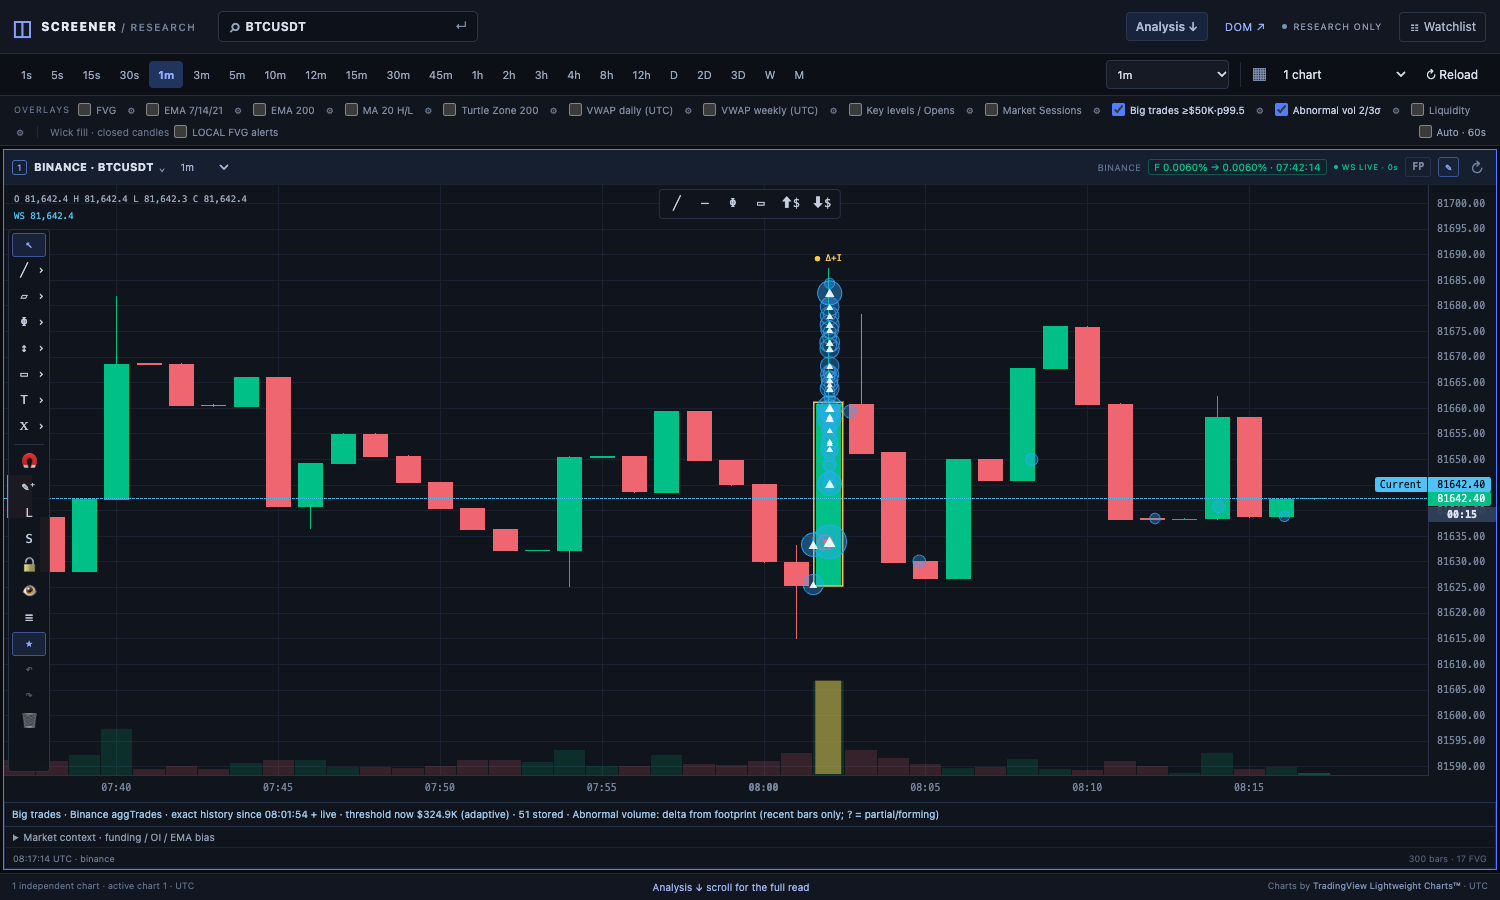
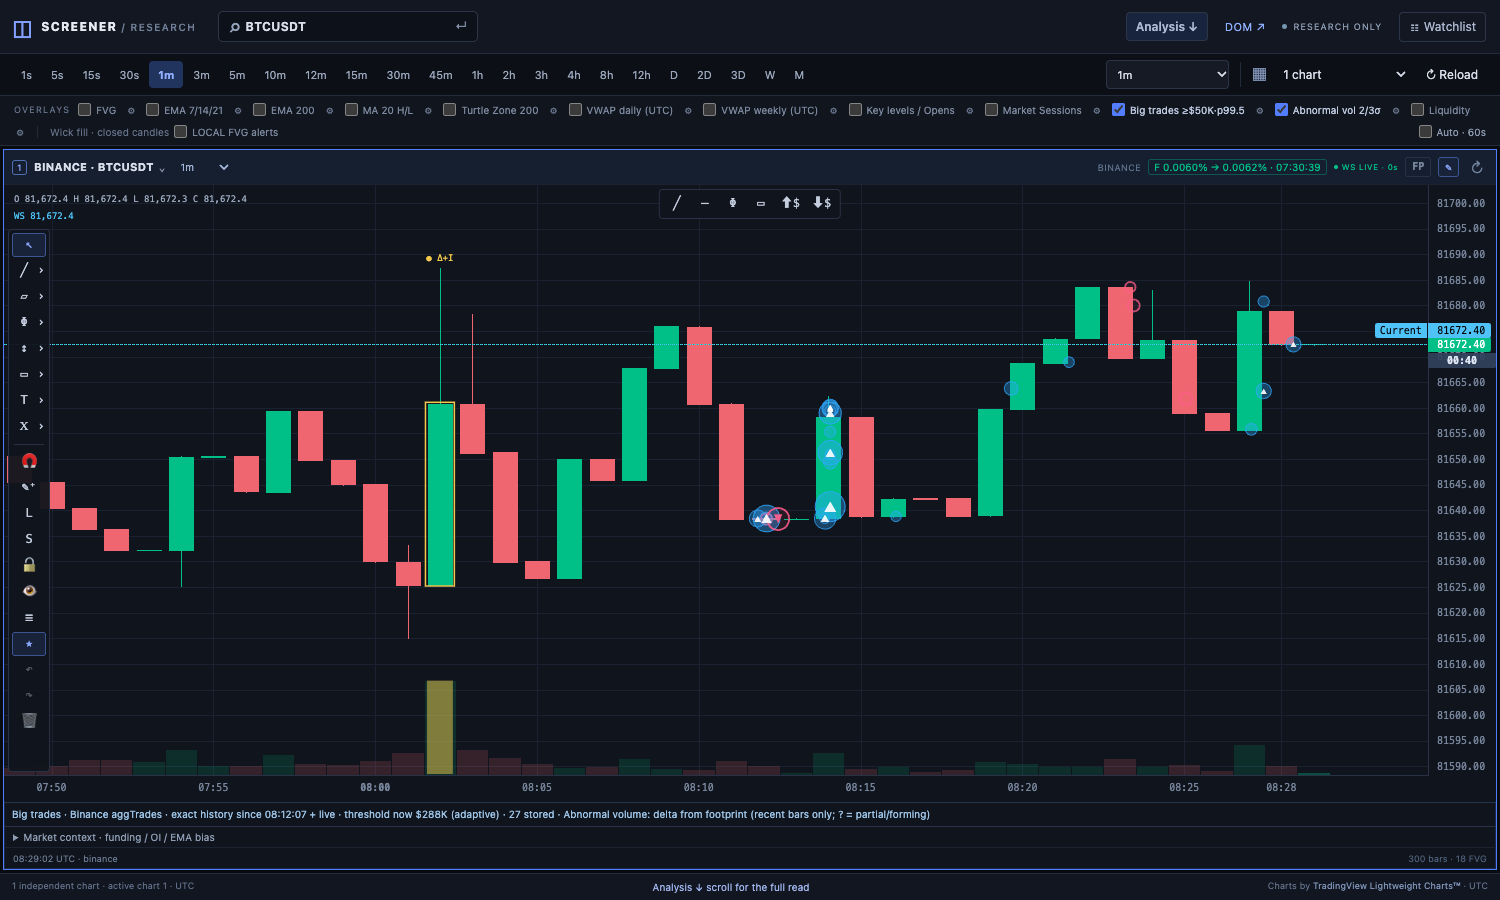
Пузыри и аномальный объём: отчёт ORDERFLOW_VISUALS_RESULT.md и живые доказательства

diff --git a/docs/ORDERFLOW_VISUALS_RESULT.md b/docs/ORDERFLOW_VISUALS_RESULT.md
@@ -1,0 +1,152 @@
+# Order-flow visuals: big-trade bubbles + abnormal-volume candles
+
+Branch `claude/orderflow-visuals` (from `claude/integration` @ 2705802). Two new chart
+indicators on `/ui`, each one toggle + one ⚙ settings popover in the overlay bar
+(`Big trades …`, `Abnormal vol …`). Both are **off by default**; old saves keep their
+choices (tested). Clean-room: behaviour was designed from public help-centre descriptions
+only; notes live outside the repo.
+
+## What was built
+
+### 1. Big-trade bubbles (`static/indicators/bubbles.js`, `bubbles-render.js`)
+- A circle at (trade time, trade price) for every **large aggressive print**.
+  - Taker **buy** = solid disc (default blue) with ▲; taker **sell** = ring (default pink)
+    with ▼ — a shape cue, not only colour.
+  - Area ∝ notional: `r = rMin·√(notional / threshold)`, clamped to `[rMin, rMax]`
+    (defaults 5–30 px). When zoomed out the max radius shrinks to ≈ bar width
+    (diameter ≤ ~2 bars); x stays inside the trade's own bar slot.
+  - Opacity grows with size (0.45–0.85); views with > 300 bubbles fade
+    (× √(300/n), floor 0.35) so candles stay readable; at most `maxVisible` (1500)
+    of the **largest** prints in view are drawn.
+- **Large** = `mode`:
+  - `fixed`: notional ≥ `minUsd` (default $50,000, USD = quote currency);
+  - `adaptive`: notional ≥ nearest-rank percentile `p` (default 99.5) of all print sizes in
+    the trailing `windowMin` (30) minutes for that symbol; needs `minSamples` (300) prints
+    first (until then: no bubbles in `adaptive`, fixed only in `both`);
+  - `both` (default): ≥ max(fixed, percentile).
+  - The threshold is **causal**: each print is judged against the distribution *before* it,
+    and keeps that threshold (shown in the tooltip), so bubbles do not change later.
+- **Print aggregation (heuristic, labelled in the tooltip)**: same side, within
+  `aggWindowMs` (150 ms) of the print's *first* trade and within `aggTicks` (2) ticks of
+  its first price (tick from `/api/scalp/instrument`). Buy and sell prints are tracked
+  separately, so interleaved opposite trades do not split a print. If the tick is unknown,
+  only exact-price fills merge (status says so). Binance aggTrades are already one taker
+  order at one price; our merge on top can join different takers.
+- **History**: new route `GET /api/trades/recent?exchange&symbol&minutes&max_requests`
+  (`trades_api.py`) returns raw rows `[id, time_ms, price, qty, side]` with coverage:
+  Binance = contiguous aggTrades back to `minutes` within a request budget (default 10,
+  max 20; shares the footprint aggTrades rate window, cuts the oldest first, says so);
+  Bybit = latest ≤1000 trades (**partial**); Hyperliquid = recent handful (**partial**).
+  The backfill is requested only after the live trade stream is up (so the snapshot's last
+  aggTrade id meets the first streamed id), then the live stream continues it. Binance live
+  ids are de-duplicated and **gaps are counted** in the status line; Bybit/HL by trade id.
+  A busy rate window returns 502 and the client retries (15/30/45 s).
+- Memory per pane: ≤ `maxStored` (5000) big prints; the percentile distribution keeps
+  only the trailing window (cap 200k values).
+- Hover tooltip: side, size, notional, price (VWAP + range if merged), time (UTC, ms),
+  venue, "aggregated from N aggTrades (heuristic …)", threshold then + basis, ids.
+- Status line per pane: source, exact/PARTIAL history start, budget truncation, live
+  gaps, current threshold.
+
+### 2. Abnormal-volume candles (`static/indicators/volume-anomaly.js`)
+- Default: **z-score of ln(volume)** vs the previous `lookback` (50) bars (bar itself
+  excluded, sample σ), tiers **2σ / 3σ**. Alternatives: `k × median` (2.5/4),
+  `k × average` (2.5/4), `percentile rank` (95 / 100 = above every bar in the window).
+- Visual: outline the body (default) or recolour it; tier 1 yellow, tier 2 orange,
+  thicker for tier 2; optional volume-bar highlight; marker above the high (`●`/`●●`).
+- Forming bar: scored against the same closed window; its volume only grows, so its tier
+  only rises (no flicker); drawn dashed and labelled "provisional". When it closes, the
+  closed bar gets the identical score (unit-tested).
+- Delta (1m–1h only): from this chart's footprint if FP is on, otherwise a hidden
+  footprint controller for the last 30/20/12/8/6/4 bars (1/3/5/15/30/60 m). Marker
+  `Δ+I` / `Δ−A` = initiative (delta agrees with the bar) / absorption (strong delta, bar
+  went the other way or barely moved); `|delta| < 15 %` = balanced. "from footprint
+  (complete bar)" only when the footprint bar is complete and closed; otherwise `?` and
+  "provisional".
+- Hover tooltip on the bar's marker/body: tier, score, method, volume, delta text.
+
+### 3. Analyst snapshot fields — **not done** (left to avoid touching analyst files that
+another agent is editing). `BigTradeStore.barSummary(open, interval)` already returns
+per-bar count / buys / sells / net notional for a future wiring.
+
+## Files
+- New: `trades_api.py`, `static/indicators/bubbles.js`, `bubbles-render.js`,
+  `volume-anomaly.js`, `orderflow-pane.js` (pane glue), tests
+  `tests/test_trades_api.py`, `tests/orderflow_visuals.test.cjs`.
+- Wiring only: `screener.py` (+2 lines), `templates/workspace.html` (+4 script tags),
+  `static/workspace.js` (+19 lines: 2 definitions, `initOrderflow`, draw/tooltip/dispose
+  hooks, chip order), `static/indicators/indicators.css` (tooltip/status styles),
+  `tests/workspace_unit.test.cjs` (toggle list + migration test).
+
+## Tests
+- `node --test tests/`: 238 tests, 232 pass, 0 fail, 6 skipped (pre-existing browser tests).
+  New: fixed/adaptive thresholds incl. warm-up and `both`, rolling-distribution expiry/cap,
+  aggregation window/tolerance/side isolation, radius scale (area ∝ notional, clamps,
+  zoom-out cap), store dedupe/gap/memory bound/causal threshold, batched render with
+  1,200 of 2,000 drawn largest-first + hit-test + tooltip, controller (backfill after the
+  stream, retry, cancel on disable), z-score / ratio / percentile tiers, forming-bar
+  monotonic and equal to the closed result, delta classification + footprint delta, settings
+  migration (new ids off, corrupt values → defaults), overlay list = one toggle + one ⚙ per
+  indicator.
+- `pytest`: 1672 passed. New: Binance rows exact vs fake aggTrades (side from maker flag),
+  budget cuts oldest, Bybit partial, validation 400s, malformed venue 502, busy rate window
+  502 instead of an empty "exact" history.
+- CI lint exactly as `.github/workflows/ci.yml` (py_compile + both ruff commands): pass.
+
+## Live checks (2026-10-18, Sunday ≈ 07:40–08:25 UTC, quiet market)
+Server: this worktree on 127.0.0.1:5100 (scratch DBs). Headless Chrome 155, 1600×1000,
+DPR 1. Independent checker (stdlib Python) re-fetched raw venue data right after dumping
+the page state. Evidence: `docs/evidence/orderflow-visuals/`.
+
+**Bubbles vs raw aggTrades** (`crosscheck-4panes.json`, 4-pane layout, ~100 s after load):
+
+| Pane | raw trades re-fetched | prints page / independent | big page / independent | mismatches |
+|---|---|---|---|---|
+| Binance BTCUSDT 1m | 5,350 aggTrades, ids contiguous | 3,807 / 3,807 | 45 / 45 | 0 threshold, 0 Decimal sum, 0 live gaps |
+| Binance BTCUSDT 15m | same 5,350 | 3,807 / 3,807 | 45 / 45 | 0 / 0 / 0 |
+| Binance ETHUSDT 5s | 5,396 aggTrades, contiguous | 3,262 / 3,263 (one print still open on the page at dump time) | 34 / 34 | 0 / 0 / 0 |
+| Bybit SOLUSDT 1m | recent-trade (1000) | — | 3 stored, 2 still re-fetchable | 0 (side, first time, Decimal qty sum) |
+
+"Independent" = a separate Python re-implementation of aggregation + causal percentile run
+over the re-fetched aggTrade id range; every page print's qty/notional equals the Decimal sum
+of its member aggTrades (rel. 1e-9), first-trade time and side (maker flag) equal.
+
+**Abnormal volume vs REST** (same report): BTC 1m 300 bars → 10 flags (7 tier 1, 3 tier 2),
+independent 10, 0 disagreements; BTC 15m 11 flags (5/6), 0 disagreements; ETH 5s 186 bars,
+volumes rebuilt from 4,370 aggTrades into 5 s buckets: 0 volume mismatches, 1 flag = 1;
+Bybit SOL 1m (v5 kline) 9 flags (8/1), 0 disagreements.
+Delta: BTC 1m 07:42 UTC flagged bar shows "+80.6 % initiative, complete"; Binance kline
+taker-buy gives 2·144.151 − 159.653 = 128.649 → +80.58 % (`delta-crosscheck-btc1m-0742.txt`).
+
+**Frame time with 1,000+ bubbles** (`perf-1000-bubbles.json`): fixed $1K threshold, BTC 1m,
+30-min backfill → 2,032 stored, 1,878–2,032 drawn per frame while panning every frame for 300
+frames: frame interval mean 16.67 ms (60.0 fps), p95 18.4 ms, max 22.7 ms; bubble draw mean
+1.53 ms (p95 2.1, max 5.6); whole overlay mean 1.83 ms.
+
+**Forming bar / interval change** (`forming-*.json`): ETH 5s, 500 ms sampling, 16 forming bars
+(test thresholds median ×1/×1.5): 5 reached a tier, every bar's tier was monotonic, drawn tier
+== model on every sample. BTC 1m forming bars stayed tier 0 (quiet market) — no flicker but
+not a strong test. Interval 1m → 5m → 1m: flags recomputed (120 → 115), bubble store kept
+(19 big prints, all drawn).
+
+Screenshots: `four-panes.png`, `btc-1m-bubbles.png`, `btc-1m-tooltip.png`,
+`btc-1m-abnormal-tooltip.png`, `btc-15m-bubbles.png`, `btc-15m-abnormal-tooltip.png`,
+`eth-5s-*.png`, `sol-bybit-1m-*.png`, `perf-1000-bubbles.png`, `settings-big-trades.png`,
+`settings-abnormal-volume.png`.
+
+## Known limits / unverified
+- Hyperliquid not checked live. Headed Chrome, DPR 2 (Retina) and a busy market not measured.
+- Backfill depth is budget-bound: 10 Binance requests ≈ 10k aggTrades (≈ 15–30 min on this
+  quiet Sunday, only minutes on busy days); on 15m+ charts bubbles cover only recent bars.
+  Bybit/HL history is partial by venue design (labelled). Live history is lost on reload or on a
+  data-setting change (the store is rebuilt from a fresh backfill).
+- The aggTrades rate window (60 req/min) is shared with footprint and seconds candles; on
+  busy layouts the first backfill can be refused → status "live stream only, retrying".
+- The adaptive percentile needs 300 prints; with a short backfill the first prints use the fixed
+  threshold only (status shows "percentile warming up").
+- Delta is available only for 1m–1h and recent bars; none on seconds or > 1h intervals.
+- The chart's own last closed 1m candle once differed from REST klines (17.355 vs 17.548 BTC,
+  and 1 bar in the final check) — this is the existing candle feed, not these modules;
+  abnormal-volume uses the chart's candles.
+- Overlapping bubbles: hover picks the topmost (smallest); the larger one underneath is
+  reachable only at its edge.
